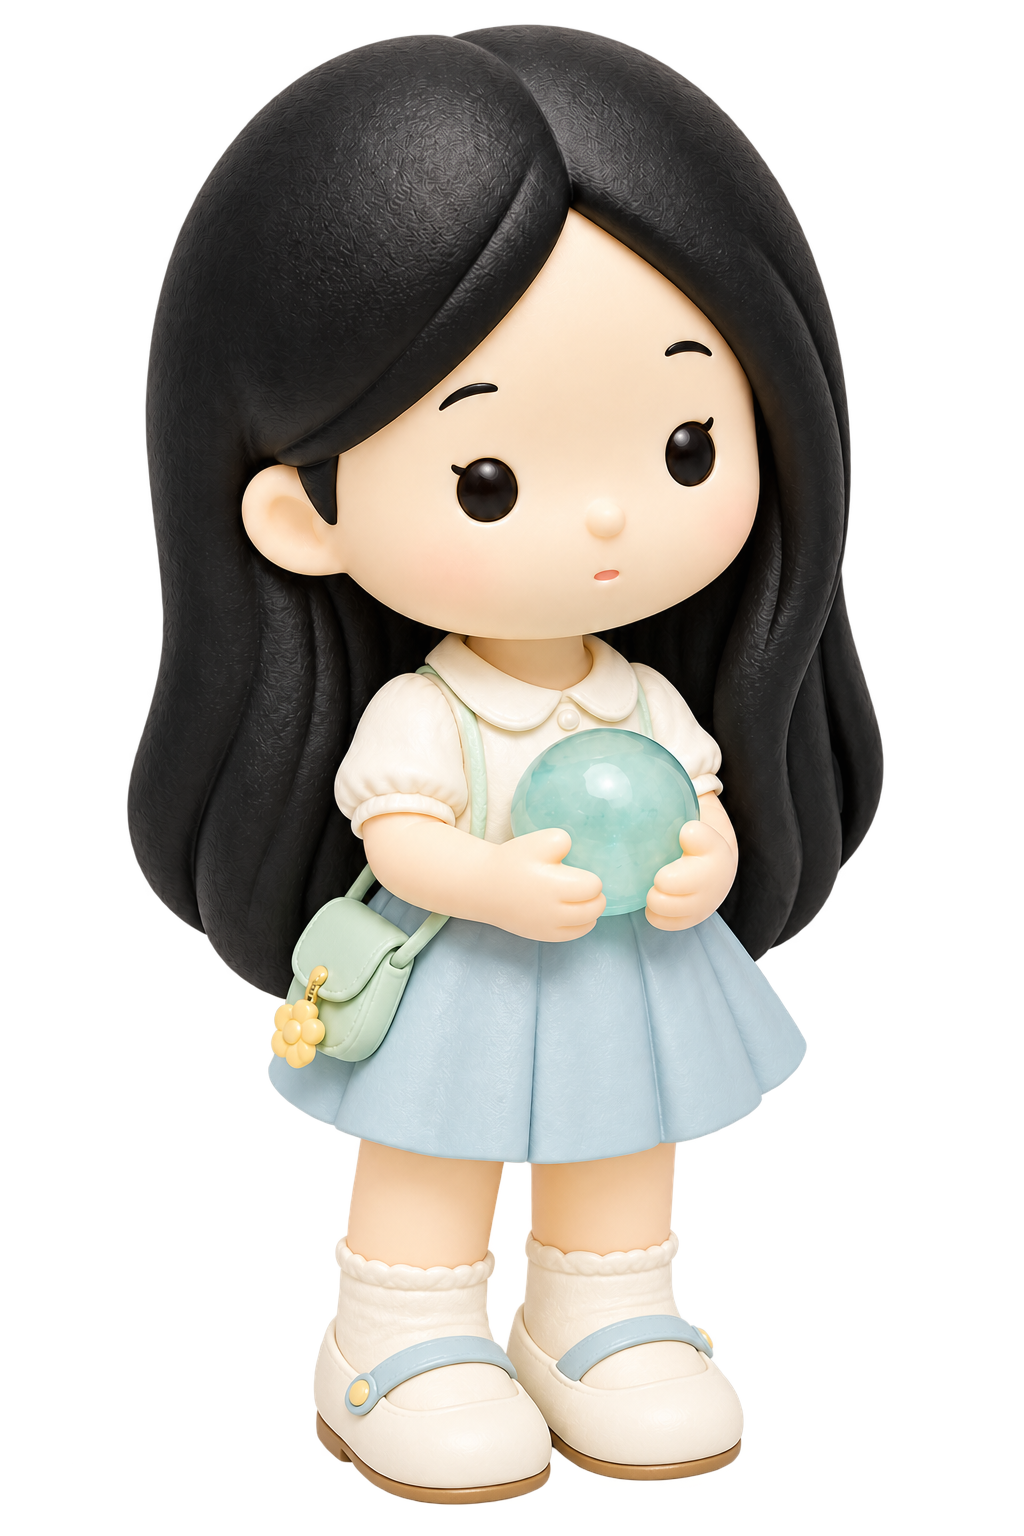
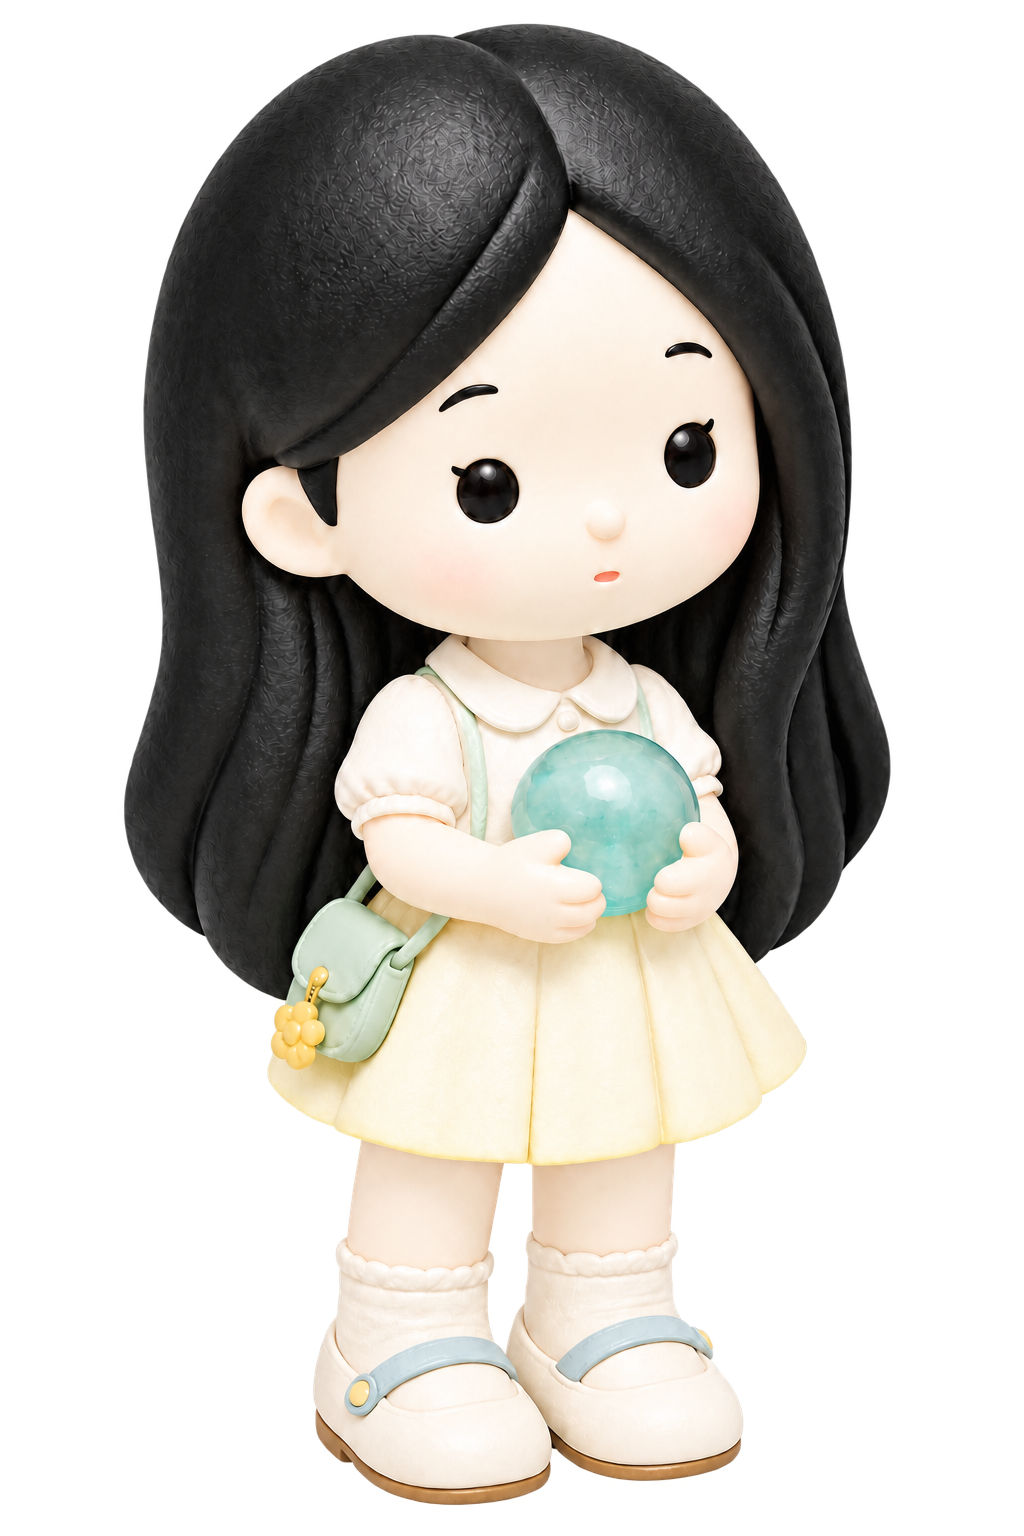
Refine mascot colors and focus glass effect on title

diff --git a/summer.css b/summer.css
@@ -41,3 +41,11 @@ body{background:#faf9f4;background-image:linear-gradient(180deg,#fbfaf5 0%,#f6fa
 .marquee{background:#edf5f1}.lab{background:#edf5f2}.about{background:linear-gradient(140deg,#f6f1df,#e7f2ee)}.creator{background:#edf7f4}.photo{background:#e4f0f1}.movement{background:#f7f1df}.contact{background:radial-gradient(circle at 72% 30%,#dcedef,transparent 30%),radial-gradient(circle at 20% 82%,#f4ebc8,transparent 28%)}
 @media(max-width:900px){.summer-ip{width:138px;height:245px;margin:8px auto -18px}.ip-stage{height:220px}.hero{min-height:980px}}
 @media(max-width:560px){.glass-heading{width:94vw;padding:.36em .24em .4em;border-radius:.5em}.summer-ip{width:120px;height:210px}.ip-stage{height:190px}.hero{min-height:925px}}
+
+/* Glass belongs to the title; supporting surfaces stay clean and solid. */
+.nav{background:#fbfaf5f2;backdrop-filter:none;box-shadow:0 12px 36px #315b6410}
+.ip-note{background:#fbfaf5;border-color:#e3ebe7;backdrop-filter:none;box-shadow:0 8px 22px #315b6412}
+.lab-card{background:#f9fbf8;backdrop-filter:none}.deck-card>div:last-child{backdrop-filter:none}
+.glass-heading{overflow:hidden;isolation:isolate;background:linear-gradient(135deg,#ffffffa8 0%,#dff3f184 46%,#ffffff75 100%);border-color:#ffffffdc;box-shadow:inset 0 1px 1px #fff,inset 0 -18px 35px #a9d8d82b,0 30px 85px #315b6418}
+.glass-heading:before{content:"";position:absolute;z-index:-1;inset:-80% -20%;background:linear-gradient(105deg,transparent 35%,#ffffff9c 48%,transparent 60%);transform:translateX(-60%) rotate(8deg);animation:glassShine 7s ease-in-out infinite}
+@keyframes glassShine{0%,18%{transform:translateX(-65%) rotate(8deg)}55%,100%{transform:translateX(65%) rotate(8deg)}}
